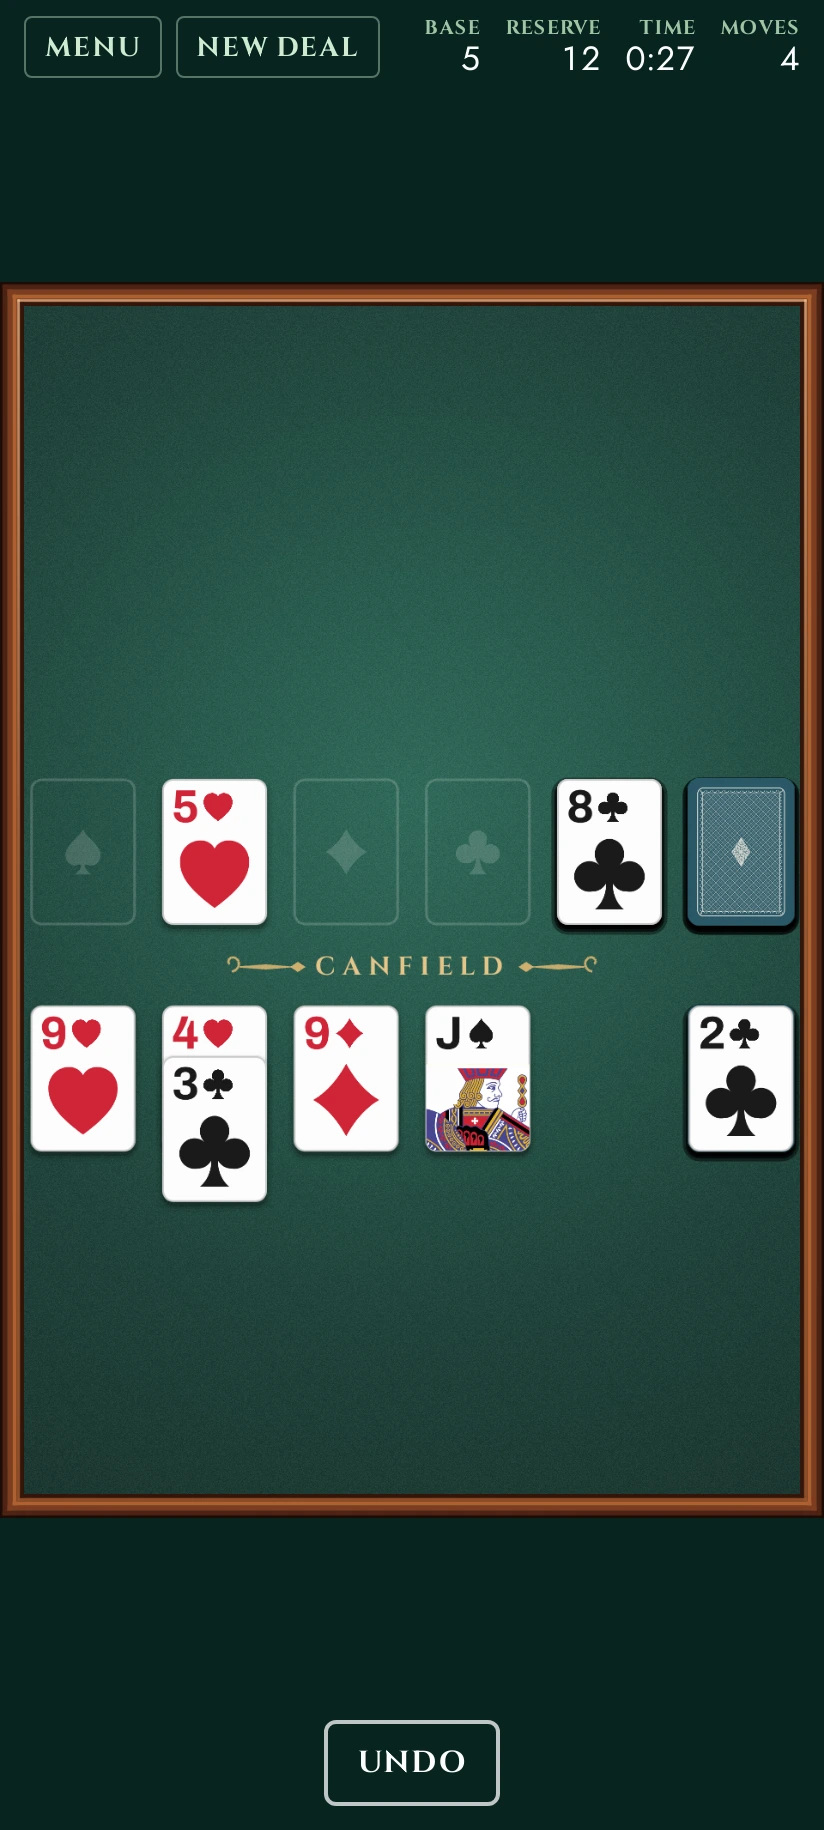
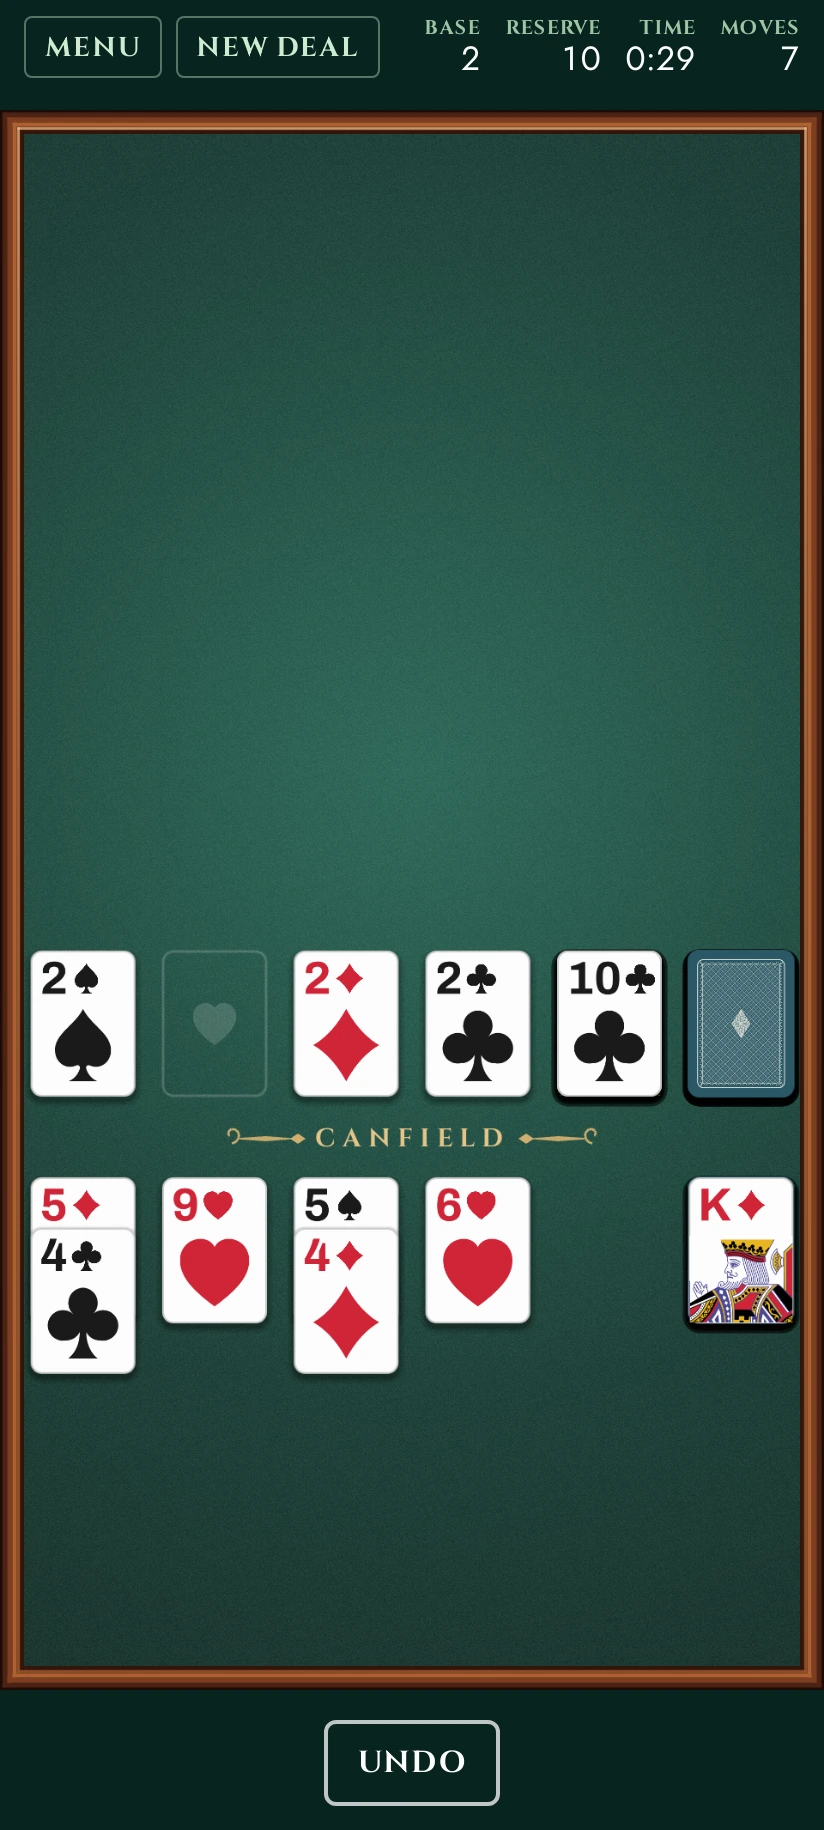
The felt was 2:3; a phone isn't
GAME_HEIGHT was 720 - exactly the tallest fan Klondike's rules can produce
plus the top row above it, a fact about the deepest possible hand and
never a fact about a screen. At 480 wide that's a 2:3 board, and Scale.FIT
can only ever satisfy one of "fits the width" or "fits the height" when
the container disagrees with that ratio - which every phone checked here
does. Measured rather than assumed: .board's own rendered box on three
real sizes comes out to ~.51-.54, nowhere near .667. The gap was never
felt with nothing on it, it was the plain page showing above and below
the canvas entirely - wood rail included, since the rail is drawn as part
of the same texture.

920 is chosen to match that measured range (480/920 ≈ .522) rather than
the deepest-hand arithmetic, which still holds as a minimum rather than a
target. BOARD_FLOOR and MAX_BOARD_DROP both grew by the same 200 units, so
the existing "board sits at the bottom of the room it's using" mechanic
- already built for exactly this, just never given the room to use -
pulls a typical hand down into the new space instead of leaving it as
dead felt below a floor that never moved.

That mechanic only ever covered the seven column-and-two-row games,
though. Tri Peaks, Pyramid, Golf and Black Hole place every pile
themselves and don't drop toward the thumb the way a tableau does, so the
first pass of this left their felt full-height but their cards exactly
[…]

diff --git a/src/app/game/config.ts b/src/app/game/config.ts
@@ -34,12 +34,26 @@ export const CARD_PEEK_HEIGHT = cardFaceMetrics(CARD_WIDTH).peek;
 export const CARD_BACK_PEEK_HEIGHT = 11;
 
 // Seven columns of cards decide the width, and the width then decides how big
-// a card is; the height is what is left over. Made as tall as a phone, the
-// board is fitted by width and the spare height becomes felt nobody plays on
-// - and since Scale.FIT is uniform, that felt costs the cards a quarter of
-// their size. 720 is the tallest fan the rules can produce (a king-to-ace run
-// on top of six face-down cards) plus the top row above it, and nothing more.
-export const GAME_HEIGHT = 720;
+// a card is; the height is what's left to choose, and it used to be chosen
+// for the wrong thing - 720 was exactly the tallest fan the rules can
+// produce (a king-to-ace run on top of six face-down cards) plus the top row
+// above it, and not a unit more. That's a fact about the deepest possible
+// hand, not about a phone, and it made the board *2:3* - noticeably squarer
+// than a modern phone's own screen, which measures out at .board's actual
+// rendered box (padding, HUD and footer already spent) rather than assumed:
+// ~.51-.54 on three real sizes checked. Scale.FIT can only ever satisfy one
+// of those two ratios, so the board was letterboxed top and bottom by
+// however much they disagreed - a visible band of plain page above and below
+// the felt, not felt itself, on every phone this was ever looked at on.
+//
+// 920 is chosen to match that measured range (480/920 ≈ .522) rather than
+// the deepest-hand arithmetic, which still holds - it becomes a minimum
+// this satisfies rather than a target it hits exactly. The room that opens
+// up doesn't go to waste: BOARD_FLOOR and MAX_BOARD_DROP below both grew by
+// the same 200 units this did, so the existing "board sits at the bottom of
+// the room it's using" mechanic pulls typical hands down into the new space
+// instead of leaving it as dead felt past a floor that never moved.
+export const GAME_HEIGHT = 920;
 
 // Poker size is 2.5 x 3.5 inches - a 5:7 ratio - and cards look wrong at
 // anything else. The package keeps them in that proportion; 60 units wide is
@@ -96,8 +110,10 @@ export const FIRST_FOUNDATION_COLUMN = 3;
 // this board that no card ever covers.
 export const TABLEAU_TOP_Y = 162;
 
-// The lowest a card's bottom edge may reach, clear of the rail.
-export const BOARD_FLOOR = 700;
+// The lowest a card's bottom edge may reach, clear of the rail. 200 units
+// below where it sat when GAME_HEIGHT was 720 - the same 20-unit clearance
+// from the bottom of the board, on a board that's now 200 units taller.
+export const BOARD_FLOOR = 900;
 
 // How far down the whole layout slides when the tableau is not using its full
 // height, and in what steps.
@@ -116,11 +132,15 @@ export const BOARD_FLOOR = 700;
 // most moves. In steps of a step-and-a-bit, the board moves a handful of
 // times a game, far enough to be read as deliberate.
 //
-// The cap is four of those steps, which on a phone is most of the way from
-// the middle of the screen to the bottom of it. What it costs is a band of
-// bare felt above the foundations, which is no loss: a table is allowed to
-// have table on it, and nothing was ever played up there.
-export const MAX_BOARD_DROP = 260;
+// The cap used to be four of those steps; it's seven now, the same 260 plus
+// the 200 units BOARD_FLOOR gained when GAME_HEIGHT grew to match a real
+// phone's own proportions rather than letterboxing above and below a board
+// shaped for the deepest hand alone - so a typical hand drops into that new
+// room instead of it sitting unused below a floor that never moved. What it
+// costs is a band of bare felt above the foundations, which is no loss: a
+// table is allowed to have table on it, and nothing was ever played up
+// there.
+export const MAX_BOARD_DROP = 460;
 export const BOARD_DROP_STEP = 65;
 
 // And how far down it must always sit, which is a fact about the waste rather

diff --git a/src/app/game/pyramid-table.ts b/src/app/game/pyramid-table.ts
@@ -40,13 +40,16 @@ const MARGIN = 20;
 // first given, because the board prints the game's name across the felt at
 // TABLEAU_TOP_Y - 23 and a taller pyramid puts its second row straight
 // through the lettering. Tri Peaks starts at the same height for the same
-// reason.
-const APEX_TOP = 150;
+// reason. 200 further down than that hundred-and-fifty since, to keep pace
+// with GAME_HEIGHT - see config.ts and tripeaks-table.ts's PEAK_TOP for why
+// a game that doesn't drop toward the thumb has to move its own numbers when
+// that constant does.
+const APEX_TOP = 350;
 
 // The deck, the card in play and the heap, low, where the thumbs are. Three
 // piles rather than Tri Peaks' two, because a king leaves on his own and has
 // to leave somewhere.
-const HAND_Y = 600;
+const HAND_Y = 800;
 const HAND_GAP = 150;
 
 // Twelve half-steps from the left edge of the leftmost card to the left edge

diff --git a/src/app/game/blackhole-table.ts b/src/app/game/blackhole-table.ts
@@ -31,15 +31,16 @@ const WIDTH = 480;
 const COLUMNS = 6;
 const ROWS = [6, 6, 5];
 
-// Below the printed lettering, which sits at TABLEAU_TOP_Y - 23.
-const FAN_TOP = 150;
+// Below the printed lettering, which sits at TABLEAU_TOP_Y - 23. Shifted the
+// same 200 units GAME_HEIGHT grew by - see tripeaks-table.ts's PEAK_TOP.
+const FAN_TOP = 350;
 // Three cards deep is 143 units, so 152 leaves a clear gap between rows
 // without the fans reading as one long column.
 const ROW_STEP = 152;
 
 // The hole, low and central: it is the only place a card can go, so it is the
 // one thing a dragged card is ever aimed at.
-const HOLE_Y = 655;
+const HOLE_Y = 855;
 
 const PITCH = (WIDTH - 2 * BOARD_MARGIN) / COLUMNS;
 

diff --git a/src/app/game/golf-table.ts b/src/app/game/golf-table.ts
@@ -24,12 +24,13 @@ const WIDTH = 480;
 // than a tableau usually sits, because this one never grows: five cards is
 // five cards from the deal to the end of the hand, and the room a Klondike
 // pile might one day need is room this game can spend on the gap between the
-// wall and the hand.
-const WALL_TOP = 150;
+// wall and the hand. Shifted the same 200 units GAME_HEIGHT grew by - see
+// tripeaks-table.ts's PEAK_TOP.
+const WALL_TOP = 350;
 
 // The deck and the card in play, low, where between them they are every press
 // in the game. The same arrangement Tri Peaks uses, for the same reason.
-const HAND_Y = 600;
+const HAND_Y = 800;
 const HAND_GAP = 150;
 
 // Golf, as the board sees it.

diff --git a/src/app/game/tripeaks-table.ts b/src/app/game/tripeaks-table.ts
@@ -42,11 +42,16 @@ const HALF_STEP = 25;
 const ROW_STEP = 44;
 
 const MARGIN = 20;
-const PEAK_TOP = 150;
+// Both 200 below where they sat when GAME_HEIGHT was 720 - see config.ts's
+// own note on that. This game doesn't drop toward the thumb the way a
+// tableau game does, so without the shift the extra felt that move opened up
+// would sit unused below the hand instead of the peaks and the hand both
+// moving down into it.
+const PEAK_TOP = 350;
 
 // Where the deck and the card in play sit: low, because between them they are
 // every press in the game.
-const HAND_Y = 600;
+const HAND_Y = 800;
 const HAND_GAP = 150;
 
 const WIDTH = MARGIN * 2 + 18 * HALF_STEP + CARD_WIDTH;
